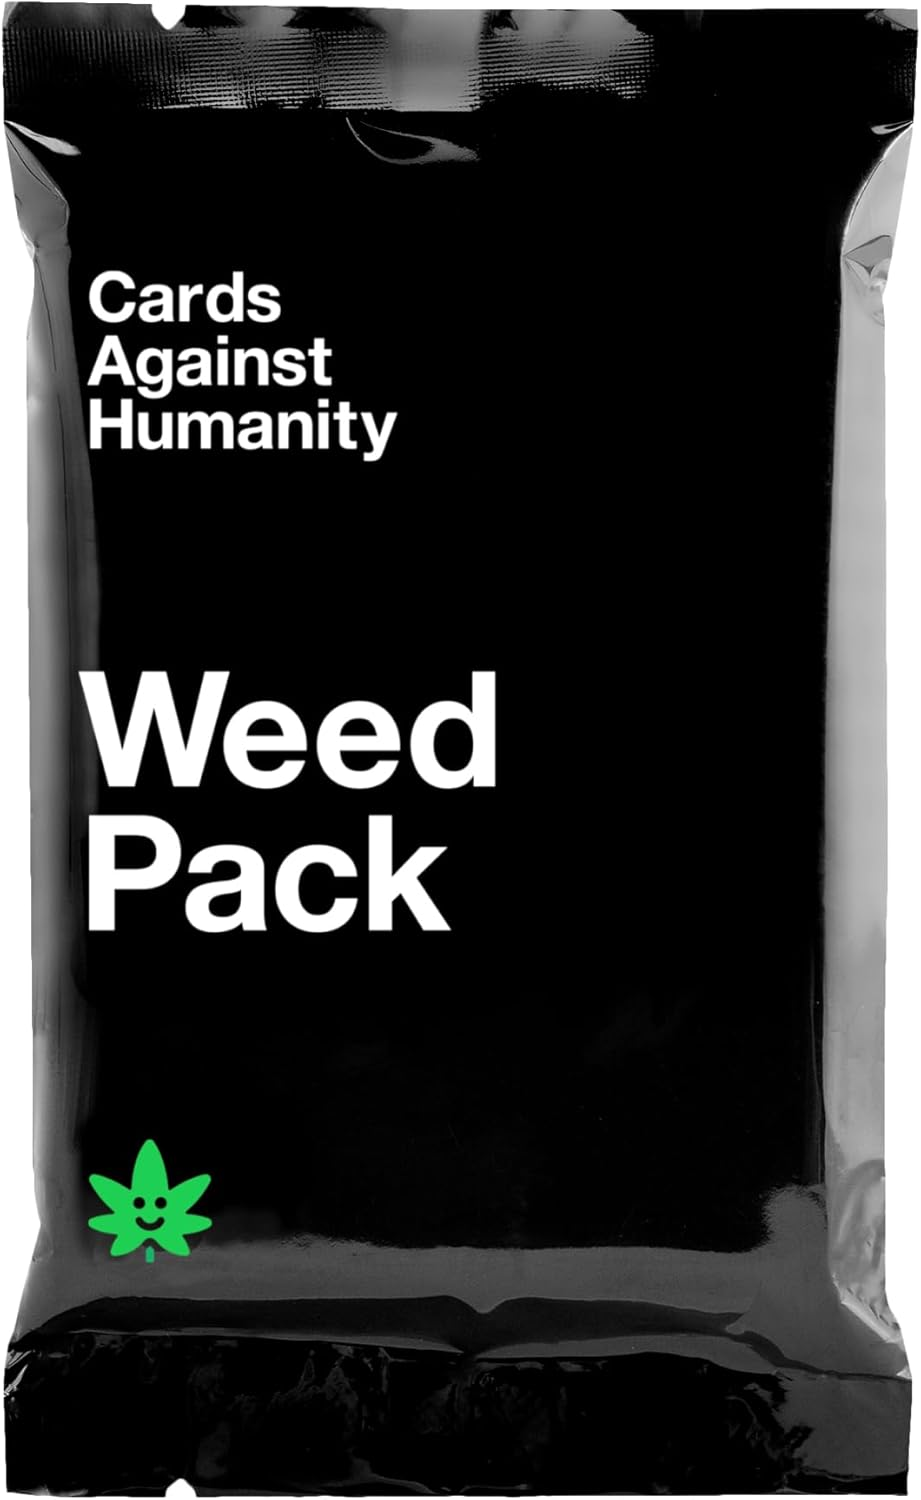
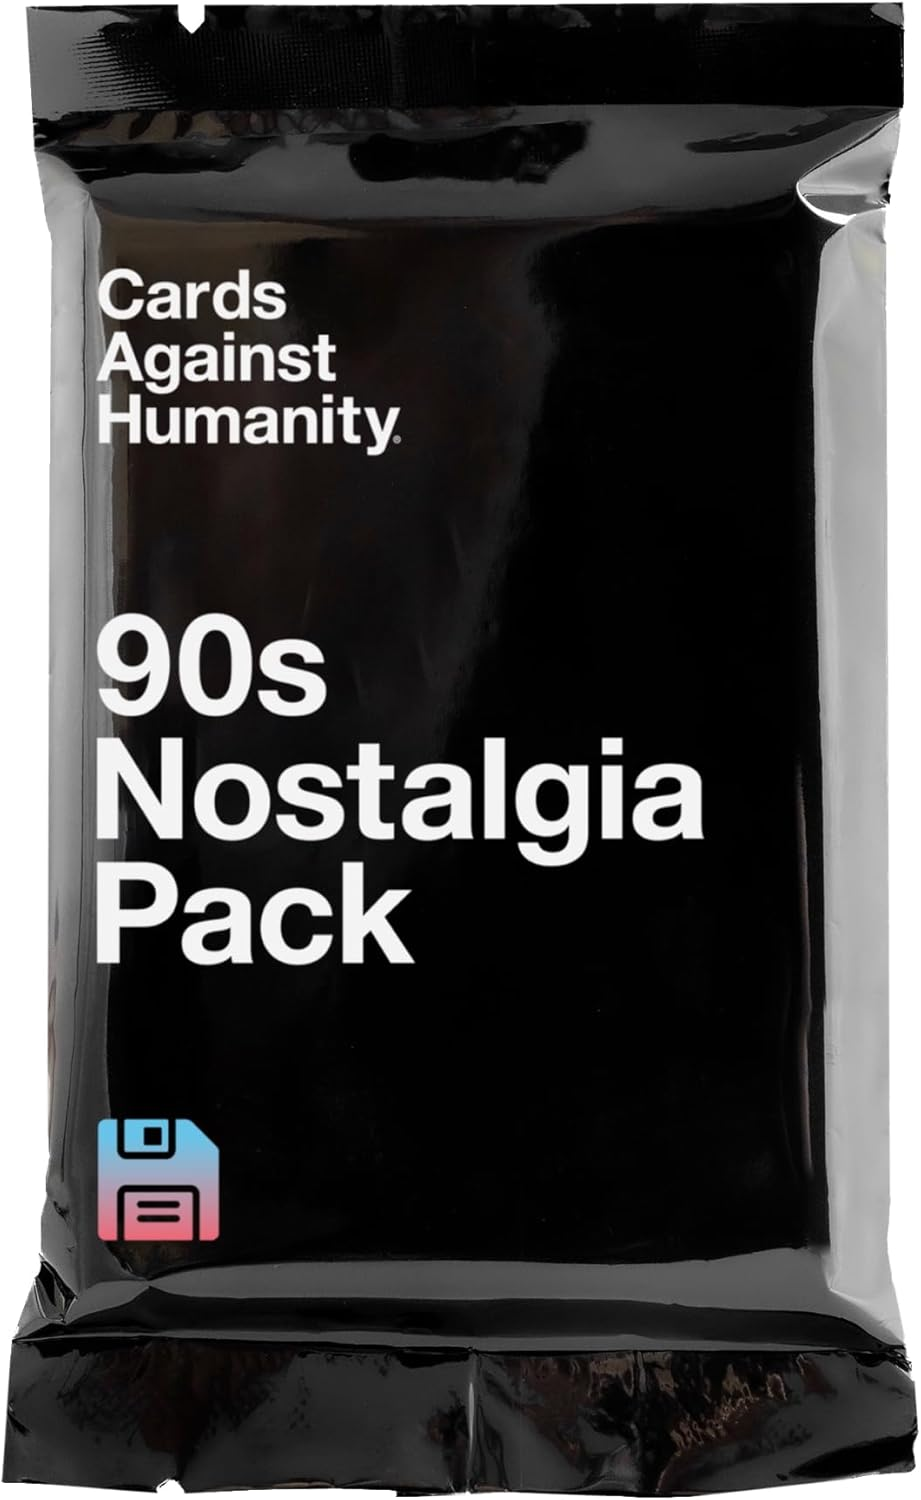
fix: correct product image URLs and re-download misaligned images
Fixed incorrect Amazon affiliate URLs in fetch script that caused
product image misalignment. Re-downloaded correct images for 8 products
that were showing wrong images.

Corrected URLs:
- Jew Pack: https://amzn.to/47Rxqce (was 4oZ7IJA)
- 90s Nostalgia: https://amzn.to/4oZ7IJA (was 4hVkMxr)
- Ass Pack: https://amzn.to/4hVkMxr (was 4nS5r1Q)
- Weed Pack: https://amzn.to/4nS5r1Q (was 4r2qjGH)
- Saves America: https://amzn.to/4r2qjGH (was 3Jvs4vb)
- Food Pack: https://amzn.to/3Jvs4vb (was 47QF4n7)
- Family Glow: https://amzn.to/47QF4n7 (was 4hWqJdw)
- Period Pack: https://amzn.to/4hWqJdw (was 47PbcaG)

All 24 products now correctly display their actual product images.

diff --git a/scripts/fetch-amazon-images.js b/scripts/fetch-amazon-images.js
@@ -36,14 +36,14 @@ const products = [
   { id: '2000s-nostalgia', url: 'https://amzn.to/49PBXyd' },
   { id: 'tiny-edition', url: 'https://amzn.to/3WQS5Ik' },
   { id: 'tales-vol-1', url: 'https://amzn.to/47RwWm6' },
-  { id: 'jew-pack', url: 'https://amzn.to/4oZ7IJA' },
-  { id: '90s-nostalgia', url: 'https://amzn.to/4hVkMxr' },
-  { id: 'ass-pack', url: 'https://amzn.to/4nS5r1Q' },
-  { id: 'weed-pack', url: 'https://amzn.to/4r2qjGH' },
-  { id: 'saves-america', url: 'https://amzn.to/3Jvs4vb' },
-  { id: 'food-pack', url: 'https://amzn.to/47QF4n7' },
-  { id: 'family-glow', url: 'https://amzn.to/4hWqJdw' },
-  { id: 'period-pack', url: 'https://amzn.to/47PbcaG' },
+  { id: 'jew-pack', url: 'https://amzn.to/47Rxqce' },
+  { id: '90s-nostalgia', url: 'https://amzn.to/4oZ7IJA' },
+  { id: 'ass-pack', url: 'https://amzn.to/4hVkMxr' },
+  { id: 'weed-pack', url: 'https://amzn.to/4nS5r1Q' },
+  { id: 'saves-america', url: 'https://amzn.to/4r2qjGH' },
+  { id: 'food-pack', url: 'https://amzn.to/3Jvs4vb' },
+  { id: 'family-glow', url: 'https://amzn.to/47QF4n7' },
+  { id: 'period-pack', url: 'https://amzn.to/4hWqJdw' },
   { id: 'boks-storage', url: 'https://amzn.to/47PbcaG' },
 ];
 
